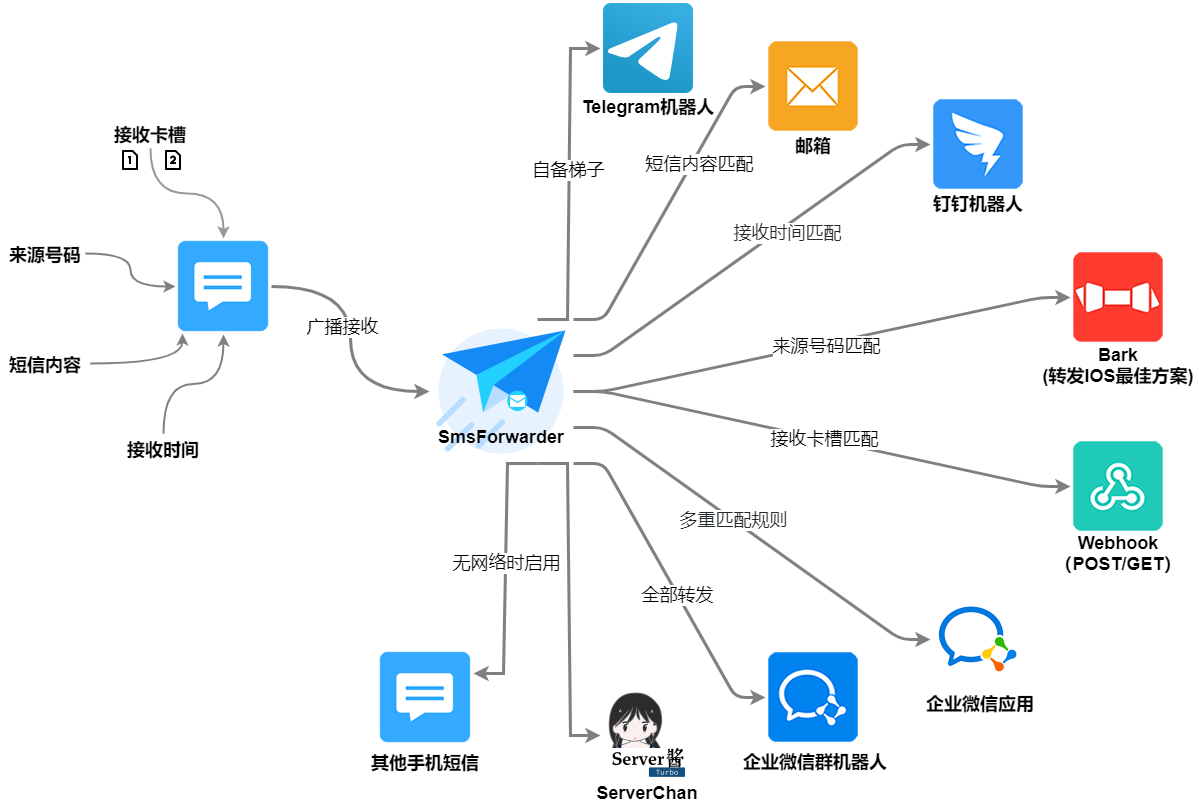
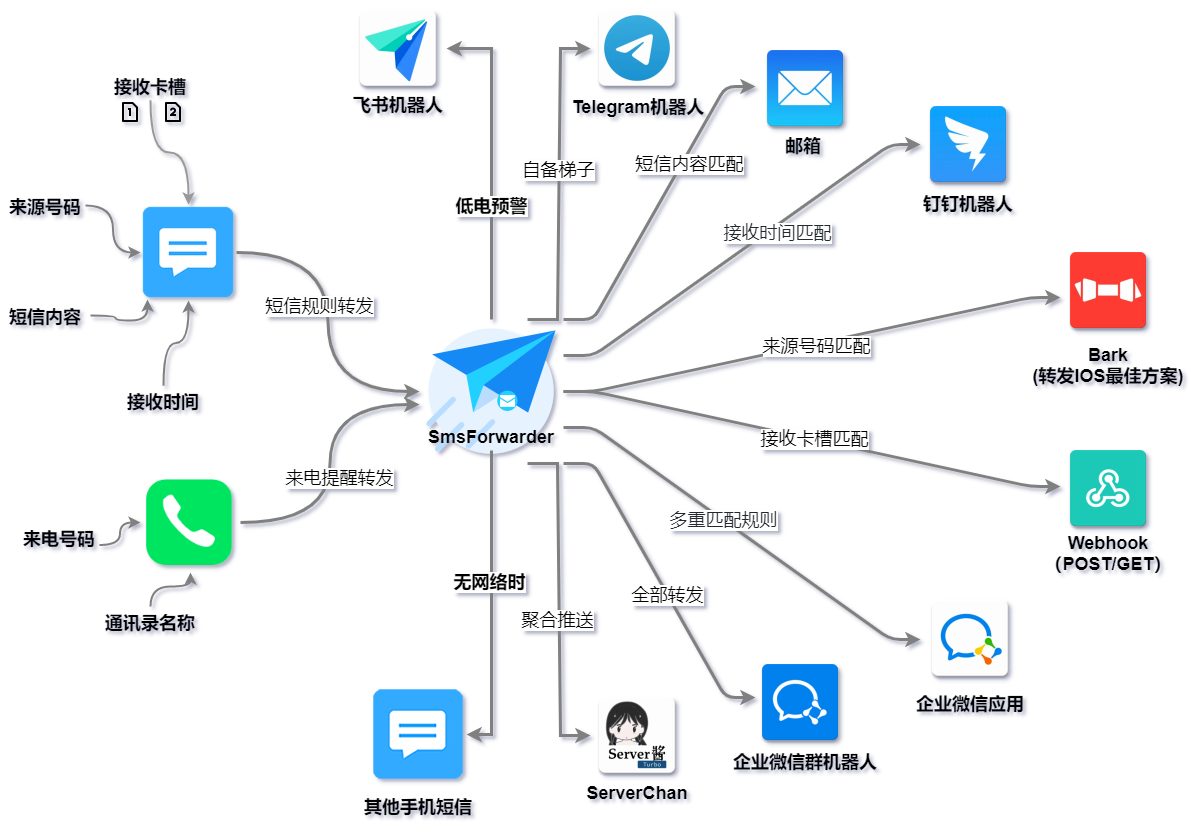
更新readme

diff --git a/README.md b/README.md
@@ -1,12 +1,12 @@
-# SmsForwarder (短信转发器) 
+# SmsForwarder (短信转发器)
 
-监控Android手机短信并根据指定规则转发到其他手机：钉钉机器人、企业微信群机器人、企业微信应用消息、邮箱、bark、webhook、Telegram机器人、Server酱、手机短信等。
+监控Android手机短信并根据指定规则转发到其他手机：钉钉机器人、企业微信群机器人、飞书机器人、企业微信应用消息、邮箱、bark、webhook、Telegram机器人、Server酱、手机短信等。
 
 > ⚠ 首发地址：https://github.com/pppscn/SmsForwarder
 
 > ⚠ 同步镜像：https://gitee.com/pp/SmsForwarder
 
-> ⚠ 网盘下载：https://wws.lanzous.com/b025yl86h 访问密码：`pppscn`
+> ⚠ 网盘下载：https://wws.lanzoui.com/b025yl86h 访问密码：`pppscn`
 
 --------
 
@@ -25,16 +25,17 @@
 * **简单** 只做两件事：监听短信 --> 根据指定规则转发
 
 由此带来的好处：
+
 * 简洁:（当时用Pad的时候，看手机验证码各种不方便，网上搜了好久也有解决方案）
-    > + AirDroid:手机管理工具功能太多，看着都耗电，权限太多，数据经过三方，账号分级
-    > + IFTTT:功能太多，看着耗电，权限太多，数据经过三方，收费
-    > + 还有一些其他的APP(例如：Tasker)也是这些毛病
+  > + AirDroid:手机管理工具功能太多，看着都耗电，权限太多，数据经过三方，账号分级
+  > + IFTTT:功能太多，看着耗电，权限太多，数据经过三方，收费
+  > + 还有一些其他的APP(例如：Tasker)也是这些毛病
 * 省电：运行时只监听广播，有短信才执行转发，并记录最近n条的转发内容和转发状态
 * 健壮：越简单越不会出错（UNIX设计哲学），就越少崩溃，运行越稳定持久
 
 ### 工作流程：
-![工作流程](pic/working_principle.png "工作流程")  
 
+![工作流程](pic/working_principle.png "工作流程")
 
 ### 功能列表：
 
@@ -56,18 +57,22 @@
 - [x] 支持标注卡槽号码(优先使用)、设备信息；自定义转发信息模版
 - [x] 支持正则匹配规则
 - [x] 支持卡槽匹配规则
-- [ ] 转发规则、发送方配置导出与导入
+- [x] 来电提醒转发
+- [x] 接口请求失败后延时重试5次（可配置间隔时间）
+- [x] 转发到飞书机器人
+- [x] 自定义 Scheme（forwarder://main）用于唤起App
+- [x] 低电量预警
 
 ### 使用流程：
+
 1. 在Android手机上安装`SmsForwarder`本APP后点击应用图标打开
 2. 在设置发送方页面，添加或点击已添加的发送方来设置转发短信使用的方式，现在支持钉钉机器人、企业微信群机器人、企业微信应用消息、邮箱、bark、webhook、Telegram机器人、Server酱：
-    > 发送方配置见《发送方设置参考》章节
+   > 发送方配置见《发送方设置参考》章节
 3. 在设置转发规则页面，添加或点击已添加的转发规则来设置转发什么样的短信，现在支持转发全部、根据手机号、根据短信内容、指定卡槽：
     + 当设置转发全部时，所以接收到的短信都会用转发出去。
     + 当设置根据手机号或短信内容时，请设置匹配的模式和值，例如：”手机号 是 10086 发送方选钉钉“。
 4. 点击主页面右上角的菜单可进入设置页面，在设置页面可以更新应用查看应用信息提交意见反馈等
 5. 在主页面下拉可刷新转发的短信，点击清空记录可删除转发的记录
-
 
 > ⚠ 该APP打开后会自动后台运行并在任务栏显示运行图标，请勿强杀，退出后请重新开启，并加入到系统白名单中，并允许后台运行
 
@@ -212,18 +217,19 @@
     + [v1.7.2](app/release/SmsForwarder_release_20210325_1.7.2.apk) 新增V1版证书签名，避免部分低版本系统(Android 6.x)无证书错误 & 发送方邮箱允许自定义发件人昵称
     + [v1.7.3](app/release/SmsForwarder_release_20210331_1.7.3.apk) 修复“设置匹配模式”默认选择BUG & 转发到webhook时返回http状态200即为成功 & 转发到其他手机短信支持长短信合并
     + [v1.7.4](app/release/SmsForwarder_release_20210715_1.7.4.apk) 修复转发企业微信群机器人碰到"被截断问题 & 转发到webhook时忽略ssl证书校验（提高自建服务端兼容性） & 转发telegram时将 # 替换为 井，避免被当作标签 & 隐私保护，发送方设置中敏感信息(密码/token/secret等)用星号显示 & 更新友盟基础组件库 & 解决“设置页面关闭卡槽信息，同时使用默认模板时，发送消息卡槽信息仍显示”
++ [v2.0.0](app/release/SmsForwarder_release_20210930_2.0.0.apk) 来电提醒转发 & 接口请求失败后延时重试5次（可配置间隔时间） & 转发到飞书机器人 & 自定义 Scheme（forwarder://main）用于唤起App & 低电量预警 & 重新梳理代码（消灭waring）& Bark增加支持分组 & 引入Lombok & 升级gradle版本 & 增加电池优化白名单设置和权限 & 转发到webhook增加支持自定义post数据，并支持Json数据提交
 
 --------
 
 ## 反馈与建议：
 
 + 提交issues 或 pr
-+ 加入交流群
++ 加入交流群（群内都是机油互帮互助）
 
 | | |
 |  ----  | ----  |
-| QQ交流群：562854376 | 微信交流群 |
-| ![QQ交流群：562854376](pic/qqgroup.jpg "QQ交流群：562854376") | ![微信交流群](pic/wechat.jpg "微信交流群") |
+| QQ机油互助交流1群：562854376（已满） | QQ机油互助交流2群：31330492 |
+| ![QQ交流群：562854376](pic/qqgroup_1.jpg "QQ交流群：562854376") | ![QQ交流群：31330492](pic/qqgroup_2.jpg "QQ交流群：31330492") |
 
 ## 感谢
 
@@ -235,7 +241,8 @@
 + https://github.com/mailhu/emailkit （邮件发送）
 + https://github.com/alibaba/fastjson (Json解析)
 
-## LICENSE    
+## LICENSE
+
 BSD
 
 ## 如果觉得本工具对您有所帮助，给个小星星鼓励一下！
